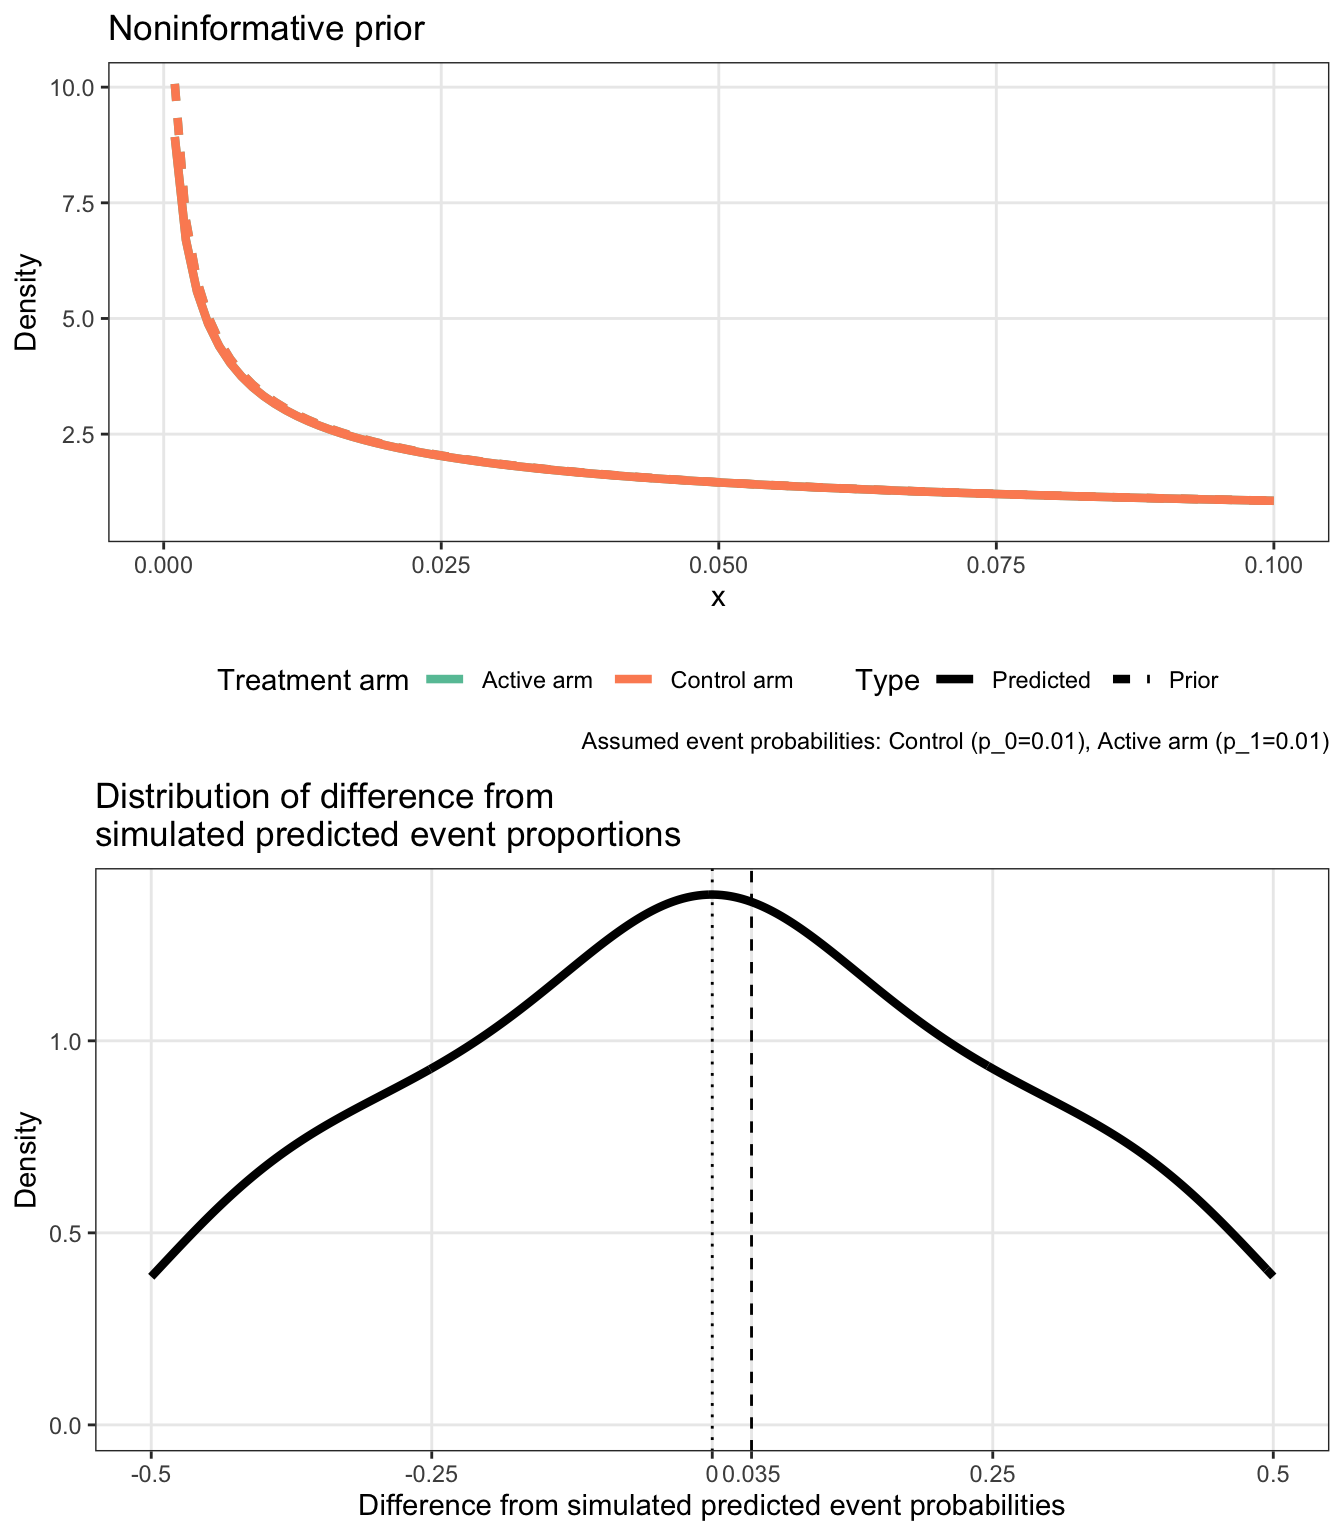
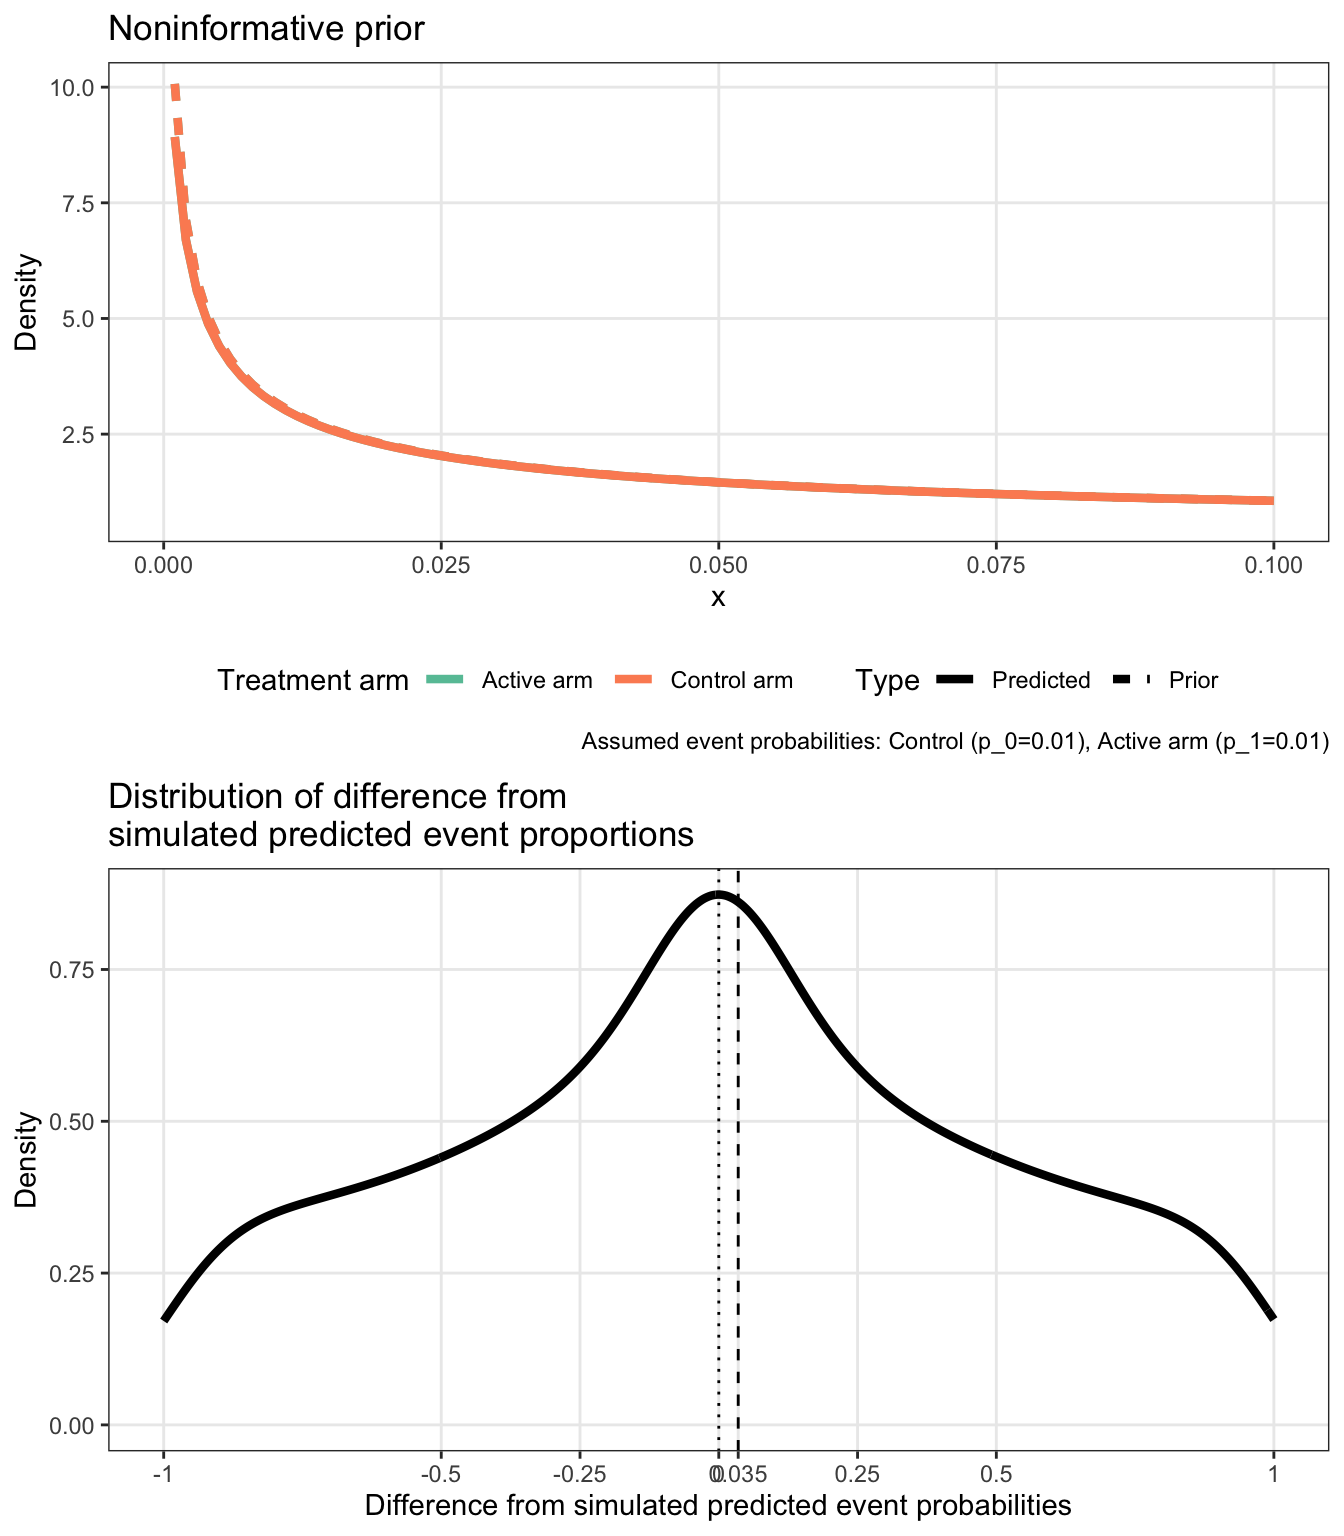
Changes

diff --git a/docs/01-NI.html b/docs/01-NI.html
@@ -1389,9 +1389,9 @@ E(R_i)=n_i\frac{a_i}{a_i+b_i}, \quad Var(R_i)=\frac{n_ia_ib_i(n_i+a_i+b_i)}{(a_i
 <span id="cb25-43"><a href="#cb25-43" aria-hidden="true" tabindex="-1"></a>    <span class="fu">ggtitle</span>(<span class="st">"Distribution of difference from</span><span class="sc">\n</span><span class="st">simulated predicted event proportions"</span>) <span class="sc">+</span></span>
 <span id="cb25-44"><a href="#cb25-44" aria-hidden="true" tabindex="-1"></a>    <span class="fu">ylab</span>(<span class="st">"Density"</span>) <span class="sc">+</span> <span class="fu">geom_vline</span>(<span class="at">xintercept =</span> delta_star,</span>
 <span id="cb25-45"><a href="#cb25-45" aria-hidden="true" tabindex="-1"></a>    <span class="at">linetype =</span> <span class="st">"dashed"</span>) <span class="sc">+</span> <span class="fu">geom_vline</span>(<span class="at">xintercept =</span> <span class="dv">0</span>,</span>
-<span id="cb25-46"><a href="#cb25-46" aria-hidden="true" tabindex="-1"></a>    <span class="at">linetype =</span> <span class="st">"dotted"</span>) <span class="sc">+</span> <span class="fu">scale_x_continuous</span>(<span class="at">breaks =</span> <span class="fu">c</span>(<span class="sc">-</span><span class="fl">0.5</span>,</span>
-<span id="cb25-47"><a href="#cb25-47" aria-hidden="true" tabindex="-1"></a>    <span class="sc">-</span><span class="fl">0.25</span>, <span class="dv">0</span>, <span class="fl">0.035</span>, <span class="fl">0.25</span>, <span class="fl">0.5</span>), <span class="at">labels =</span> <span class="fu">c</span>(<span class="sc">-</span><span class="fl">0.5</span>, <span class="sc">-</span><span class="fl">0.25</span>,</span>
-<span id="cb25-48"><a href="#cb25-48" aria-hidden="true" tabindex="-1"></a>    <span class="dv">0</span>, <span class="fl">0.035</span>, <span class="fl">0.25</span>, <span class="fl">0.5</span>), <span class="at">limits =</span> <span class="fu">c</span>(<span class="sc">-</span><span class="fl">0.5</span>, <span class="fl">0.5</span>))</span>
+<span id="cb25-46"><a href="#cb25-46" aria-hidden="true" tabindex="-1"></a>    <span class="at">linetype =</span> <span class="st">"dotted"</span>) <span class="sc">+</span> <span class="fu">scale_x_continuous</span>(<span class="at">breaks =</span> <span class="fu">c</span>(<span class="sc">-</span><span class="dv">1</span>, <span class="sc">-</span><span class="fl">0.5</span>,</span>
+<span id="cb25-47"><a href="#cb25-47" aria-hidden="true" tabindex="-1"></a>    <span class="sc">-</span><span class="fl">0.25</span>, <span class="dv">0</span>, <span class="fl">0.035</span>, <span class="fl">0.25</span>, <span class="fl">0.5</span>, <span class="dv">1</span>), <span class="at">labels =</span> <span class="fu">c</span>(<span class="sc">-</span><span class="dv">1</span>, <span class="sc">-</span><span class="fl">0.5</span>, <span class="sc">-</span><span class="fl">0.25</span>,</span>
+<span id="cb25-48"><a href="#cb25-48" aria-hidden="true" tabindex="-1"></a>    <span class="dv">0</span>, <span class="fl">0.035</span>, <span class="fl">0.25</span>, <span class="fl">0.5</span>, <span class="dv">1</span>), <span class="at">limits =</span> <span class="fu">c</span>(<span class="sc">-</span><span class="dv">1</span>, <span class="dv">1</span>))</span>
 <span id="cb25-49"><a href="#cb25-49" aria-hidden="true" tabindex="-1"></a></span>
 <span id="cb25-50"><a href="#cb25-50" aria-hidden="true" tabindex="-1"></a>cowplot<span class="sc">::</span><span class="fu">plot_grid</span>(fig1, fig2, <span class="at">align =</span> <span class="st">"h"</span>, <span class="at">ncol =</span> <span class="dv">1</span>)</span></code><button title="Copy to Clipboard" class="code-copy-button"><i class="bi"></i></button></pre></div>
 </details>
